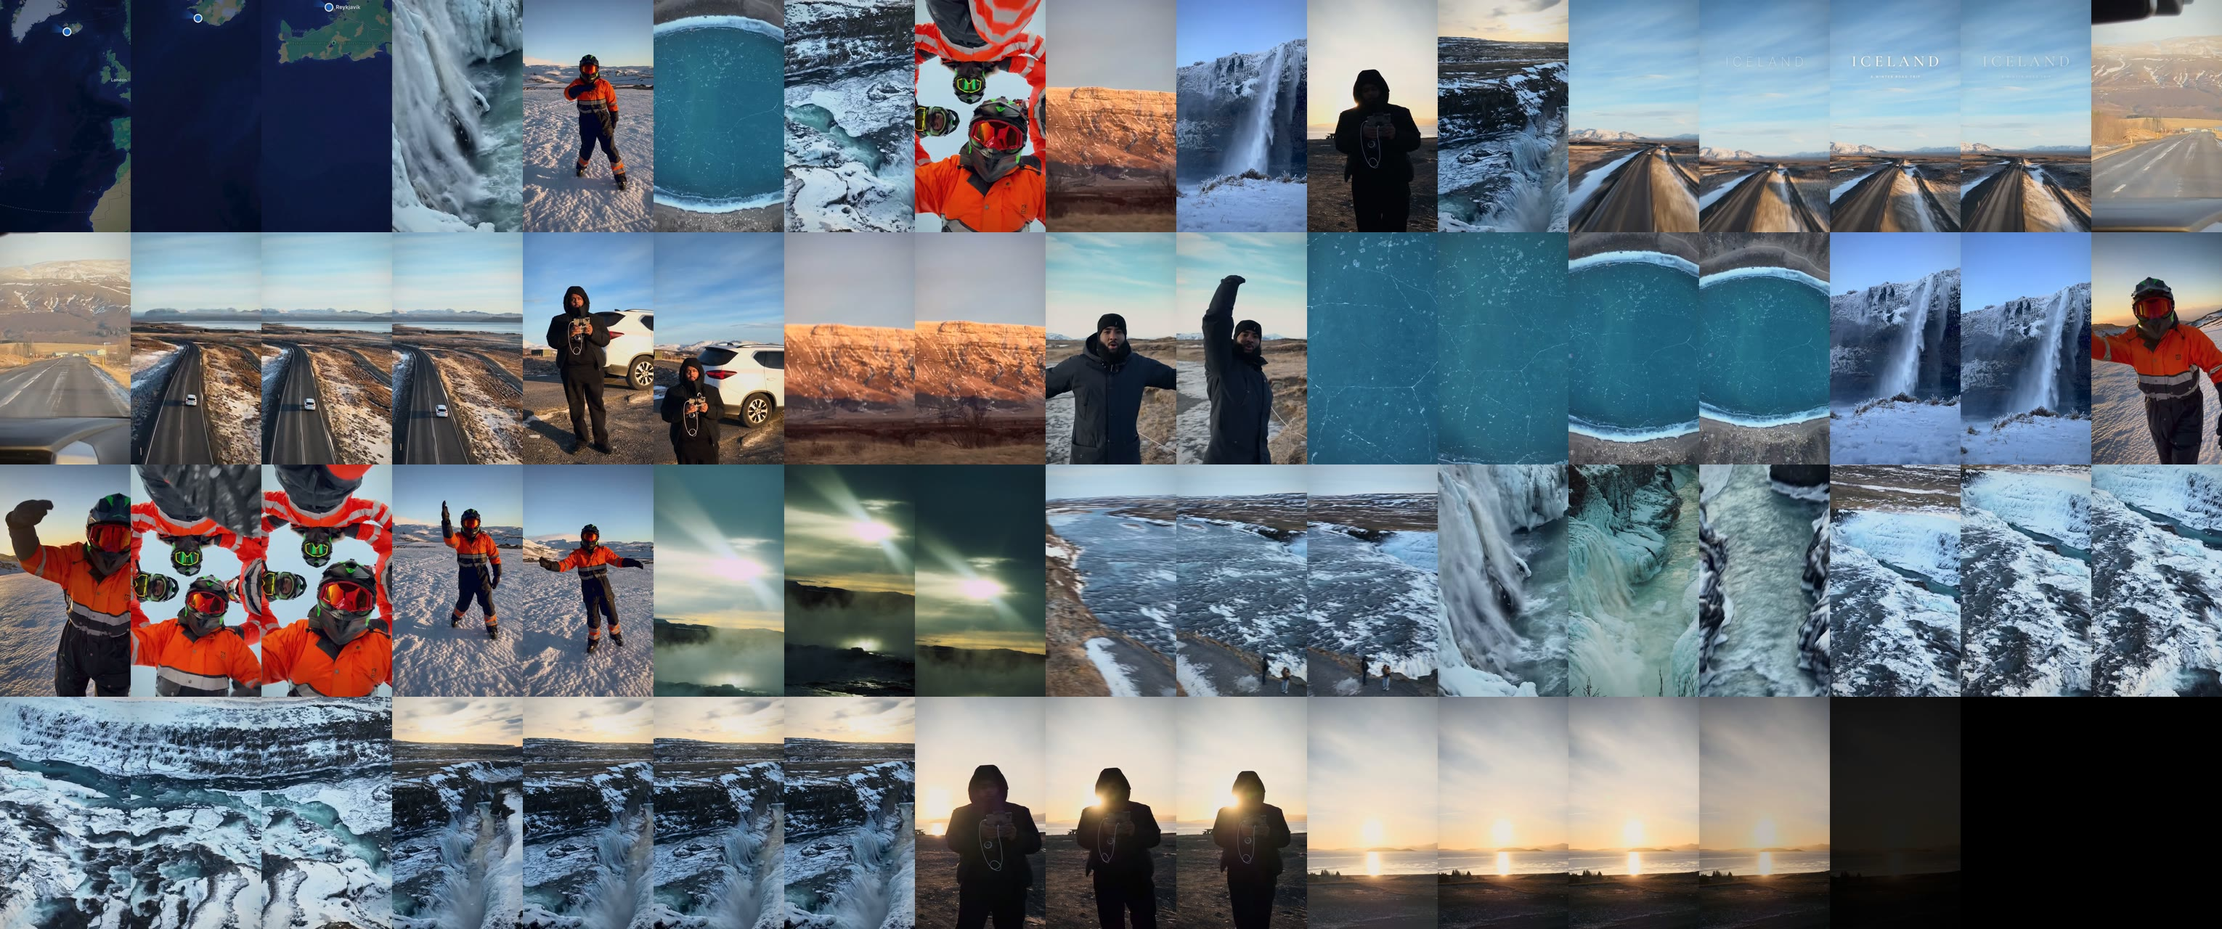
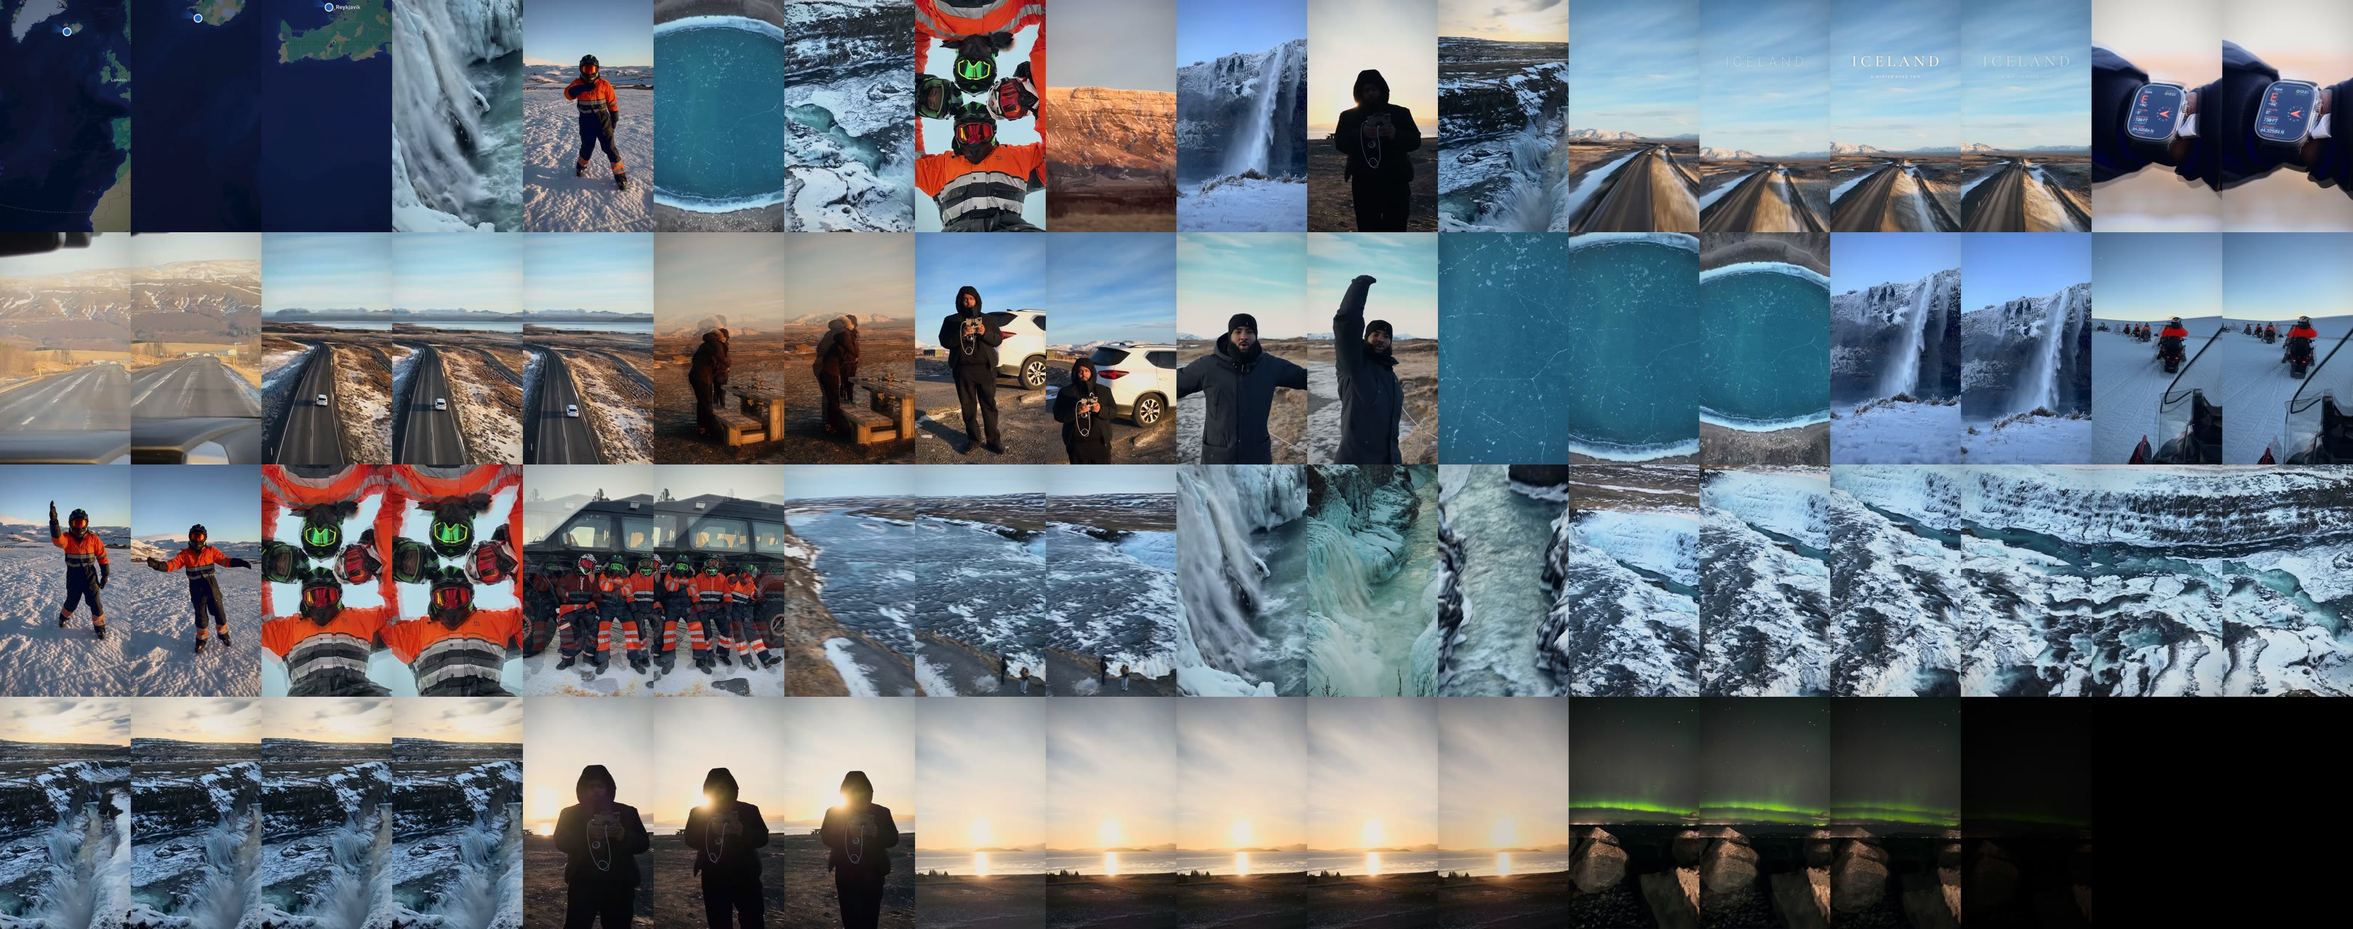
Add convoy, drone-setup and aurora photos; aurora closes the film
Six stills now in the 37.2s cut, each with keyframed motion. Score extended
to 62 beats; docs updated.

Claude-Session: https://claude.ai/code/session_0176moY5Y8Hu3G6wK2XeWVKZ

diff --git a/iceland-film/score.py b/iceland-film/score.py
@@ -2,7 +2,7 @@
 """Original score + sound design for the Iceland film, synthesised from scratch.
 
 No samples, no third-party music: every sound is generated here with numpy, so the
-soundtrack is free to publish. 100 BPM, D minor, 58 beats (34.8 s) — the picture is
+soundtrack is free to publish. 100 BPM, D minor, 62 beats (37.2 s) — the picture is
 cut on this grid (see edit.py).
 
     python3 score.py   ->  build/score.wav (48 kHz stereo)
@@ -12,7 +12,7 @@ import numpy as np
 
 SR = 48000
 BEAT = 0.6
-DUR = 58 * BEAT + 1.0
+DUR = 62 * BEAT + 1.0
 N = int(DUR * SR)
 rng = np.random.default_rng(7)
 HERE = os.path.dirname(os.path.abspath(__file__))
@@ -127,7 +127,7 @@ def build():
     roots = [38, 34, 41, 36]
     for b in range(16):
         at = b * bar
-        if at >= 58 * BEAT:
+        if at >= 62 * BEAT:
             break
         level = (.24 if b < 1 else .22 if b < 5 else .3 if b < 10 else .46)
         bright = .2 + .06 * b
@@ -146,7 +146,7 @@ def build():
                                                     (10, .6, True), (13.25, .4, False))):
         for bt, m in motif:
             at = start_bar * bar + bt * BEAT
-            if at > 57 * BEAT or (rep == 3 and bt > 5):
+            if at > 61 * BEAT or (rep == 3 and bt > 5):
                 continue
             place(music, keys(m, vel=vel), at, .5, pan=-.15)
             if octave:
@@ -181,15 +181,16 @@ def build():
     place(dry, tick(.1), 3.0, .3)
     place(dry, whoosh(.6), 4.5, .22, pan=-.3)
     place(dry, boom(1.8, 80, 36, .2), 4.8, .5)               # the trip starts
-    place(dry, whoosh(.7), 11.0, .22, pan=.3)                # into the crater pull-out
-    place(dry, boom(1.8, 80, 36, .2), 11.4, .5)
+    place(dry, whoosh(.7), 12.2, .22, pan=.3)                # into the crater pull-out
+    place(dry, boom(1.8, 80, 36, .2), 12.6, .5)
     place(dry, boom(1.6, 80, 36, .2), 19.2, .45)             # geothermal sun
     place(dry, whoosh(.8), 20.0, .22)
     place(dry, riser(2.6), 21.1, .5)                         # build into the drop
     place(dry, boom(3.4, 110, 28, .7), 24.0, 1.15)           # THE DROP
     place(dry, boom(2.4, 85, 32, .3), 27.6, .6)
     place(dry, whoosh(1.0), 31.2, .2)
-    place(dry, boom(3.0, 70, 30, .15), 31.8, .5)             # final shot
+    place(dry, boom(3.0, 70, 30, .15), 31.8, .5)             # sunset
+    place(dry, boom(3.4, 60, 28, .1), 34.8, .42)             # aurora
     # ---- synthetic ambience: wind bed + water roar under the waterfall shots
     wind = band_noise(DUR, 180, 900, .5)
     lfo = .55 + .45 * np.sin(2 * np.pi * .13 * t_axis(DUR) + 1) * np.sin(2 * np.pi * .05 * t_axis(DUR))
@@ -200,7 +201,7 @@ def build():
     def window(a, b, ramp=.5):
         return np.clip((t - a) / ramp, 0, 1) * np.clip((b - t) / ramp, 0, 1)
     water = band_noise(DUR, 90, 6000, .55)[:N]; water2 = band_noise(DUR, 90, 6000, .55)[:N]
-    wenv = window(13.2, 14.4, .15) * .4 + window(20.4, 24.0, .8) * .42 + window(24.0, 30.2, .2) * .5
+    wenv = window(14.4, 15.6, .15) * .4 + window(20.4, 24.0, .8) * .42 + window(24.0, 30.2, .2) * .5
     amb[0] += water * wenv * .16; amb[1] += water2 * wenv * .16
     road = band_noise(DUR, 40, 260, .3)[:N]
     amb += road * window(4.8, 6.1, .15) * .12
@@ -208,7 +209,7 @@ def build():
     mix = reverb(music, 3.4, .5) + reverb(dry, 1.8, .14) + amb
     gap = 1 - .93 * window(23.62, 24.0, .04)                 # a held breath before the drop
     mix *= gap
-    mix *= np.clip((58 * BEAT + .1 - t) / 2.6, 0, 1) ** 1.6  # long, clean tail to silence
+    mix *= np.clip((62 * BEAT + .1 - t) / 2.6, 0, 1) ** 1.6  # long, clean tail to silence
     mix *= np.clip(t / .03, 0, 1)
     mix = mix / np.abs(mix).max()
     mix = np.tanh(mix * 2.1) / np.tanh(2.1)                  # glue + soft limiting

diff --git a/iceland-film/edit.py b/iceland-film/edit.py
@@ -65,6 +65,8 @@ SHOTS = [
  dict(id=18, name="car-follow",      src="DJI_0102", beats=3,
       time=[(0, 1.0), (1, 5.4)], crop=[(0, .58, .5, 1), (3.3, .62, .5, 1), (6.7, .69, .5, 1)],
       fix=dict(con=1.04)),
+ dict(id=34, name="drone-setup", src="DSCF9120", beats=2, still=True,
+      time=[(0, 0), (1, 1)], crop=[(0, .5, .56, 1.0), (1, .52, .58, 1.1)], fix=dict(con=1.03)),
  dict(id=5,  name="takeoff-reveal",  src="DJI_0118", beats=2,
       time=[(0, 1.0), (1, 3.6)],
       crop=[(0, .43, .5, 1), (1.5, .43, .5, 1), (3, .48, .5, 1), (5, .60, .5, 1)], fix={}),
@@ -76,16 +78,14 @@ SHOTS = [
       time=[(0, 4.0), (1, 8.4)], crop=[(0, .53, .5, 1)], fix=dict(con=1.04)),
  dict(id=21, name="seljalandsfoss",  src="IMG_2600", beats=2,
       time=[(0, 4.6), (1, 5.8)], crop=[(0, .5, .5, 1)], fix=dict(con=1.04)),
- dict(id=31, name="glacier-dawn", src="F9FE209F", beats=2, still=True,
-      time=[(0, 0), (1, 1)], crop=[(0, .5, .62, 1.0), (1, .52, .64, 1.09)], fix=dict(sat=.9)),
+ dict(id=35, name="snowmobile-convoy", src="IMG_2014", beats=2, still=True,
+      time=[(0, 0), (1, 1)], crop=[(0, .55, .5, 1.0), (1, .58, .49, 1.12)], fix=dict(sat=.92)),
+ dict(id=24, name="glacier-arms",    src="IMG_2687_2", beats=2,
+      time=[(0, 4.9), (1, 6.1)], crop=[(0, .5, .5, 1)], fix=dict(sat=.88)),
  dict(id=32, name="huddle", src="IMG_2701", beats=2, still=True,
       time=[(0, 0), (1, 1)], crop=[(0, .5, .5, 1.0), (1, .5, .5, 1.1)], fix=dict(sat=.88)),
  dict(id=33, name="crew-truck", src="IMG_2707", beats=2, still=True,
       time=[(0, 0), (1, 1)], crop=[(0, .40, .5, 1.0), (1, .61, .5, 1.0)], fix=dict(sat=.88)),
- dict(id=24, name="glacier-arms",    src="IMG_2687_2", beats=2,
-      time=[(0, 4.9), (1, 6.1)], crop=[(0, .5, .5, 1)], fix=dict(sat=.88)),
- dict(id=25, name="geothermal-sun",  src="DSCF8758", beats=2, neutral=True,
-      time=[(0, 7.5), (1, 8.7)], crop=[(0, .6, .5, 1)], fix=dict(sat=.85, tint=-.04)),
  dict(id=10, name="gullfoss-reveal", src="DJI_0131", beats=3,
       time=[(0, 8.0), (.4, 11.8), (1, 15.0)],
       crop=[(5, .72, .5, 1), (9, .62, .5, 1), (12, .50, .5, 1), (15, .36, .5, 1), (16, .33, .5, 1)],
@@ -113,7 +113,9 @@ SHOTS = [
       fix=dict(temp=.02), to_white=6),
  dict(id=17, name="lake-sunset",     src="DJI_0104", beats=5,
       time=[(0, 16.8), (1, 19.0)], crop=[(0, .5, .5, 1)], track_sun=True,
-      fix=dict(temp=.03), from_white=12, fade_out=36),
+      fix=dict(temp=.03), from_white=12, fade_out=10),
+ dict(id=36, name="aurora", src="IMG_1900", beats=4, still=True,
+      time=[(0, 0), (1, 1)], crop=[(0, .5, .46, 1.0), (1, .5, .44, 1.1)], fix=dict(sat=1.05), from_black=12, fade_out=40, night=True),
 ]
 
 
@@ -389,6 +391,8 @@ def render_shot(shot):
         if shot.get("from_white") and n < shot["from_white"]:
             k = 1 - n / shot["from_white"]
             img = img + (np.array([1, .97, .92], np.float32) - img) * k ** 1.6
+        if shot.get("from_black") and n < shot["from_black"]:
+            img = img * smoothstep(0, 1, (n + 1) / shot["from_black"])
         if shot.get("fade_out") and n >= n_out - shot["fade_out"]:
             k = (n_out - 1 - n) / shot["fade_out"]
             img = img * smoothstep(0, 1, k)

diff --git a/iceland-film/docs/03-timeline.md b/iceland-film/docs/03-timeline.md
@@ -1,23 +1,24 @@
-# Shot-by-shot timeline (v2, re-cut to the references)
+# Shot-by-shot timeline (v3: references + photos)
 
-34.8 s · 1080×1920 · 30 fps · 100 BPM (1 beat = 0.6 s). Every cut lands on a beat; the opening flashes are three to a beat. Source of truth: `SHOTS` in `edit.py`.
+37.2 s · 1080×1920 · 30 fps · 100 BPM (1 beat = 0.6 s). Every cut lands on a beat; the opening flashes are three to a beat. Source of truth: `SHOTS` in `edit.py`.
 
 | Time | Length | Source (in → out, s) | Picture |
 |---|---|---|---|
 | 0.0–0.6 | 0.6 s | RPReplay 0.85 → 1.5 | Maps globe punches in to Iceland |
-| 0.6–2.4 | 9 × 0.2 s | DJI_0127, IMG_2687_2, copy_19AB, DJI_0123, IMG_2698, IMG_2169, IMG_2600, DJI_0118, DJI_0129 | Flash montage: ice curtain, glacier, crater, gorge, huddle, alpenglow, Seljalandsfoss, silhouette, sunset falls |
-| 2.4–4.8 | 2.4 s | DJI_0103 12 → 31 | Drone hyperlapse down the road, 9× easing to 3×; title flickers in at 3.0 s |
-| 4.8–6.0 | 1.2 s | IMG_2175 15.6 → 17.7 | Windscreen POV, golden road |
-| 6.0–7.8 | 1.8 s | DJI_0102 1 → 5.4 | Drone follows the car along the lake road |
-| 7.8–9.0 | 1.2 s | DJI_0118 1 → 3.6 | Take-off from the pilot and car |
-| 9.0–10.2 | 1.2 s | IMG_2169 5 → 6.2 | Sunrise glow on the table mountains |
-| 10.2–11.4 | 1.2 s | DJI_0123 11.7 → 12.9 | Friend throws arms open |
-| 11.4–13.8 | 2.4 s | copy_19AB 3.4 → 9.2 | Cracked blue ice pulls out to reveal the frozen Kerið crater |
-| 13.8–15.0 | 1.2 s | IMG_2600 4.6 → 5.8 | Frozen Seljalandsfoss (native vertical) |
-| 15.0–16.2 | 1.2 s | IMG_2687_2 0.2 → 1.4 | Snowmobile suit, sunrise behind |
-| 16.2–17.4 | 1.2 s | IMG_2698 10.2 → 11.4 | Group huddle over the camera |
-| 17.4–18.6 | 1.2 s | IMG_2687_2 4.9 → 6.1 | Arms wide on the glacier |
-| 18.6–20.4 | 1.8 s | DSCF8758 7.2 → 9 | Sun rays through geothermal steam (colour-repaired) |
+| 0.6–2.4 | 9 × 0.2 s | DJI_0127, IMG_2687_2, copy_19AB, DJI_0123, IMG_2701, IMG_2169, IMG_2600, DJI_0118, DJI_0129 | Flash montage of what is coming |
+| 2.4–4.8 | 2.4 s | DJI_0103 12 → 31 | Drone hyperlapse down the road; title flickers in at 3.0 s |
+| 4.8–6.0 | 1.2 s | DSCF9166 (photo) | PHOTO — watch compass reading 64.3° N, slow push-in |
+| 6.0–7.2 | 1.2 s | IMG_2175 15.6 → 17.7 | Windscreen POV, golden road |
+| 7.2–9.0 | 1.8 s | DJI_0102 1 → 5.4 | Drone follows the car along the lake road |
+| 9.0–10.2 | 1.2 s | DSCF9120 (photo) | PHOTO — setting up the drone at the picnic table in golden light, push-in |
+| 10.2–11.4 | 1.2 s | DJI_0118 1 → 3.6 | Take-off from the pilot and car |
+| 11.4–12.6 | 1.2 s | DJI_0123 11.7 → 12.9 | Friend throws arms open |
+| 12.6–14.4 | 1.8 s | copy_19AB 4 → 8.4 | Cracked blue ice pulls out to reveal the frozen Kerið crater |
+| 14.4–15.6 | 1.2 s | IMG_2600 4.6 → 5.8 | Frozen Seljalandsfoss (native vertical) |
+| 15.6–16.8 | 1.2 s | IMG_2014 (photo) | PHOTO — snowmobile convoy on the glacier under the moon, push-in |
+| 16.8–18.0 | 1.2 s | IMG_2687_2 4.9 → 6.1 | Arms wide on the glacier |
+| 18.0–19.2 | 1.2 s | IMG_2701 (photo) | PHOTO — helmet huddle from below, push-in |
+| 19.2–20.4 | 1.2 s | IMG_2707 (photo) | PHOTO — the crew against the glacier truck, slow pan across all four |
 | 20.4–22.2 | 1.8 s | DJI_0131 8 → 15 | River rushes in, two figures at the lip of Gullfoss; 4× easing to 1.6× |
 | 22.2–22.8 | 0.6 s | DJI_0127 1.5 → 2.25 | Ice curtain, top-down |
 | 22.8–23.4 | 0.6 s | DSCF9213 0.5 → 1.1 | Frozen side-fall detail |
@@ -25,12 +26,17 @@
 | 24.0–27.6 | 3.6 s | DJI_0123 42.4 → 46 | THE DROP: tilt-down over the whole gorge at true speed |
 | 27.6–30.0 | 2.4 s | DJI_0129 6 → 10.8 | Gullfoss under the sunset sky |
 | 30.0–31.8 | 1.8 s | DJI_0118 57.2 → 59 | Pilot eclipses the sun; bloom to white |
-| 31.8–34.8 | 3.0 s | DJI_0104 16.8 → 19 | Sun on the lake, slowed and sun-tracked; fade out |
+| 31.8–34.8 | 3.0 s | DJI_0104 16.8 → 19 | Sun on the lake, slowed and sun-tracked; dips to black |
+| 34.8–37.2 | 2.4 s | IMG_1900 (photo) | PHOTO — northern lights over the bay, slow push-in; fade out |
 
 ## Sound map
 
-Riser under the map and flashes with one hit per flash → impact on the title shot (2.4) → pulse and piano motif through the trip, impacts at 4.8, 11.4 and 18.6 → riser from 21.1, everything drops out at 23.6 → biggest impact at 24.0 with full pad, drums and the motif an octave up → groove thins at 30.0 → soft impact on the white-out (31.8) → 2.6 s tail to silence. Synthetic wind throughout; water under Seljalandsfoss and the Gullfoss shots.
+Riser under the map and flashes with one hit per flash → impact on the title shot (2.4) → pulse and piano motif through the trip, impacts at 4.8, 12.6 and 19.2 → riser from 21.1, everything drops out at 23.6 → biggest impact at 24.0 with full pad, drums and the motif an octave up → groove thins at 30.0 → soft impacts on the white-out (31.8) and the aurora (34.8) → 2.6 s tail to silence. Synthetic wind throughout; water under Seljalandsfoss and the Gullfoss shots.
 
 ## Transitions
 
-Hard cuts on the beat throughout, plus: the flash montage, a flash-accented cut on the title and on the drop, and the in-camera white-out into the last shot.
+Hard cuts on the beat throughout, plus: the flash montage, flash-accented cuts on the title and the drop, the in-camera white-out into the sunset, and a dip to black from sunset into the aurora (day into night).
+
+## Photos
+
+Six photos are used, each with keyframed movement (push-in or pan) so none sits static, and never more than two in a row.

diff --git a/iceland-film/docs/04-qc-report.md b/iceland-film/docs/04-qc-report.md
@@ -1,6 +1,6 @@
 # Quality-control report
 
-File: `output/iceland_winter_road_trip_9x16.mp4` (v2, re-cut after the reference TikToks and second footage batch arrived)
+File: `output/iceland_winter_road_trip_9x16.mp4` (v3: re-cut to the reference TikToks, second footage batch and photos)
 
 ## Technical (measured on the exported file)
 
@@ -8,12 +8,12 @@ File: `output/iceland_winter_road_trip_9x16.mp4` (v2, re-cut after the reference
 |---|---|
 | Container / codecs | MP4 (faststart), H.264 High, AAC-LC |
 | Resolution / aspect | 1080×1920, 9:16 |
-| Frame rate | 30 fps constant, 1044 frames |
-| Duration | 34.8 s |
-| Video bitrate | 14.0 Mbps (62 MB) |
-| Audio | 48 kHz stereo, 256 kbps, −13.1 LUFS integrated, −0.9 dBFS peak |
+| Frame rate | 30 fps constant, 1116 frames |
+| Duration | 37.2 s |
+| Video bitrate | 14.0 Mbps (66 MB) |
+| Audio | 48 kHz stereo, 256 kbps, −13.1 LUFS integrated, −1.0 dBFS peak |
 | Colour tags | Rec.709, yuv420p |
-| Black frames | None except the intended fade-out (last 0.2 s) |
+| Black frames | None except the intended dip to black between sunset and aurora (0.13 s) and the final fade-out |
 | Watermarks | None |
 | Source footage | Untouched (read-only) |
 
@@ -26,13 +26,13 @@ I reviewed the export as stills: one frame per beat for the whole film (`docs/co
 | Question | Finding |
 |---|---|
 | Does the first second grab? | Map punch-in from frame 1, then nine 0.2 s flashes; the title shot lands at 2.4 s on the first impact. |
-| Does pacing match the references? | Flash hook as refs 2 and 4, ~1.2 s body cuts as ref 3, people in roughly half the shots. Shot count went from 17 to 29 in a shorter film. |
+| Does pacing match the references? | Flash hook as refs 2 and 4, ~1.2 s body cuts as ref 3, people in roughly half the shots. 31 shots in 37 s, against 17 in the first cut. |
 | Cinematic, not automated? | Every shot is hand-reframed with keyframes; speed ramps are eased; one shared film grade; cuts on a musical grid. |
 | Transitions intentional? | Four in total, each motivated by the footage; the rest are hard cuts on beats. |
 | Grade consistent across cameras? | Drone, phone and Fuji clips sit together. The Fuji clips arrive with a heavy green cast; they are auto-neutralised. The geothermal shot reads moody teal and the ice detail slightly turquoise (2.4 s total). |
-| Repeated shots? | The nine opening flashes preview moments that return later, by design (as in ref 4). Otherwise nothing repeats; the friend in the snowmobile suit appears twice, from different moments. |
-| Story coherent? | Map → road → friends and places (crater, Seljalandsfoss, glacier, geothermal) → Gullfoss build → payoff → sunset. |
-| Ending deliberate? | Silhouette eclipses the sun, in-camera bloom to white, sun over the lake slowed and held, 1.2 s fade with a 2.6 s audio tail (unchanged from v1). |
+| Repeated shots? | The nine opening flashes preview moments that return later, by design (as in ref 4). Otherwise nothing repeats. |
+| Story coherent? | Map → road → friends and places (crater, Seljalandsfoss, glacier, geothermal) → Gullfoss build → payoff → sunset → northern lights. |
+| Ending deliberate? | Silhouette eclipses the sun, in-camera bloom to white, sun over the lake, dip to black, then the aurora photo with a slow push-in and a 1.3 s fade; 2.6 s audio tail. |
 | TikTok safe areas? | Title sits at 25–34% of the height, centred, clear of the top bar, right-hand buttons and caption area. Subjects are kept in the central column. |
 
 ## Problems found during review and fixed
@@ -47,7 +47,7 @@ I reviewed the export as stills: one frame per beat for the whole film (`docs/co
 
 - **Resolution.** The supplied files are 720p landscape proxies. A 9:16 crop uses about 405×720 pixels of each frame, upscaled 2.7× to 1080×1920. It holds up at phone size with a light sharpen and fine grain, but it is visibly softer than native footage would be. Dropping the camera originals into the source folder and re-running `edit.py` fixes this with no other changes.
 - **References are 16:9; the film is 9:16** as the brief specifies. Say if you want a landscape version.
-- **One shot is partly obscured:** in the group huddle a glove swings across the top-right of frame. It reads as playful, but it is the first thing I would swap if you disagree.
+- **Six shots are photos** with added movement. They are sharp, but they are stills: the film ends on one (the aurora).
 - **Soundtrack is synthesised** (pad, felt-piano motif, drums, impacts, wind and water). It is original and safe to publish, but it is not a recorded or mastered piece of music, and I could not listen to it. If you prefer a licensed track or a TikTok sound, cut points are on a 100 BPM grid: a 100 BPM track will line up directly.
 - **Camera audio is not used**, for the reason given in the inventory.
 - **Slow motion** is limited to the final shot because all footage is 30 fps.

diff --git a/iceland-film/docs/01-footage-inventory.md b/iceland-film/docs/01-footage-inventory.md
@@ -39,8 +39,26 @@
 
 The four vertical phone clips are 720×1280, so they fill the frame without cropping and are the sharpest shots in the film.
 
+## Photos — 17 supplied (one sent twice), 6 used
+
+Photos are full resolution, so they are the sharpest frames in the film. They are copied to `stills/` (git-ignored).
+
+| Photo | Content | Used |
+|---|---|---|
+| DSCF9166 | Watch compass, 64.3° N | Yes |
+| DSCF9120 | Two people setting up the drone at a picnic table, golden light | Yes |
+| IMG_2014 | Snowmobile convoy on the glacier, crescent moon | Yes |
+| IMG_2701 | Helmet huddle from below | Yes (replaces the partly obscured video version) |
+| IMG_2707 | Crew of four against the glacier truck | Yes |
+| IMG_1900 | Northern lights over the bay | Yes — new final shot |
+| F9FE209F | Rider leaning on the truck at dawn | No (cut to make room for the convoy) |
+| DJI_0112 | Pilot leaning on the car, wide | No (same scene as the take-off video) |
+| DSCF8988 | Jeep under the mountains | No (dust spot in the sky; holds for a later cut) |
+| DSCF9184, DSCF9172 | Mountain beyond the Gullfoss cliffs | No (DSCF9172 has a sensor spot and a yellow cast) |
+| DJI_0133, 0084, 0080, 0078, 0082, 0079 | Telephoto drone landscapes: mountains, lake, road | No (strong, but landscapes are already well covered by video) |
+
 ## What the footage does and does not contain
 
 - **Present (both batches):** glacier snowmobiling, a frozen crater lake, geothermal steam, a second waterfall (Seljalandsfoss), drone aerials, a road and driving sequence, a frozen waterfall and canyon (Gullfoss), snow mountains, a lake at sunset, people (pilot, friend, two figures at the falls), one intimate detail shot.
-- **Absent:** volcanic scenes, slow-motion (everything is 30 fps), night or aurora. The edit does not pretend otherwise, so the subtitle reads "A winter road trip" rather than "land of fire and ice".
+- **Absent:** volcanic scenes, slow-motion (everything is 30 fps), night video (the aurora is a photo). The edit does not pretend otherwise, so the subtitle reads "A winter road trip" rather than "land of fire and ice".
 - **Audio:** six clips carry camera audio. It was not used: I cannot audition it, and the levels (peaks at 0 dBFS) suggest wind clipping and possible speech or car radio. Ambience in the film is synthesised instead.

diff --git a/iceland-film/README.md b/iceland-film/README.md
@@ -1,6 +1,6 @@
 # Iceland — A Winter Road Trip
 
-A 35-second cinematic 9:16 travel film cut from 27 clips of drone, camera and phone footage.
+A 37-second cinematic 9:16 travel film cut from 27 clips of drone, camera and phone footage and six photos.
 
 ```
 iceland-film/
@@ -9,6 +9,7 @@ iceland-film/
 ├── assets/        Cormorant Garamond roman + italic (SIL OFL) for the title
 ├── docs/          01 footage inventory · 02 reference analysis · 03 timeline · 04 QC report
 ├── output/        iceland_winter_road_trip_9x16.mp4
+├── stills/        photos used in the cut (git-ignored; matched by name like the clips)
 └── build/         intermediates (git-ignored)
 ```
 
